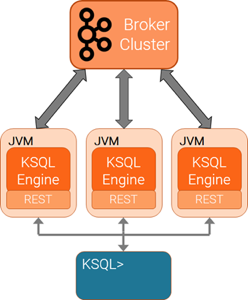
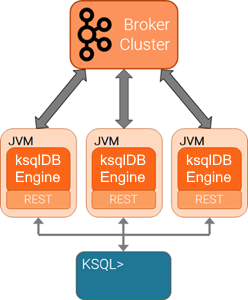
docs: update more graphics

Changed region(s): [[0.3952, 0.51, 0.5927, 0.63], [0.0565, 0.51, 0.254, 0.63], [0.7339, 0.51, 0.9315, 0.63]]

diff --git a/docs-md/concepts/ksqldb-architecture.md b/docs-md/concepts/ksqldb-architecture.md
@@ -24,7 +24,7 @@ ksqlDB Server comprises the ksqlDB engine and the REST API. ksqlDB Server
 instances communicate with a {{ site.ak }} cluster, and you can add more of
 them as necessary without restarting your applications.
 
-![Diagram showing architecture of ksqlDB](../img/ksql-architecture-and-components.png)
+![Diagram showing architecture of ksqlDB](../img/ksqldb-architecture-and-components.png)
 
 - ksqlDB Engine: The ksqlDB engine executes SQL statements and queries. You
 define your application logic by writing SQL statements, and the engine
@@ -139,7 +139,7 @@ Use the interactive mode to develop your ksqlDB applications. When you
 deploy a ksqlDB server in interactive mode, the REST interface is
 available for the ksqlDB CLI and {{ site.c3 }} to connect to.
 
-![Diagram showing interactive ksqlDB deployment](../img/ksql-client-server-interactive-mode.png)
+![Diagram showing interactive ksqlDB deployment](../img/ksqldb-client-server-interactive-mode.png)
 
 In interactive mode, you can:
 
@@ -171,7 +171,7 @@ using a SQL file. The SQL file contains the SQL statements and queries
 that define your application. Headless mode is ideal for streaming ETL
 application deployments.
 
-![Diagram showing headless ksqlDB deployment](../img/ksql-standalone-headless.png)
+![Diagram showing headless ksqlDB deployment](../img/ksqldb-standalone-headless.png)
 
 In headless mode you can:
 
@@ -230,7 +230,7 @@ property. The following diagram shows a {{ site.ak }} cluster with separate
 workloads for a `finance` pool and a `sales` pool. For more information, see
 [ksql.service.id](../operate-and-deploy/installation/server-config/config-reference.md#ksqlserviceid).
 
-![Diagram showing how to join ksqlDB engines to the same service pool](../img/ksql-dedicating-resources.png)
+![Diagram showing how to join ksqlDB engines to the same service pool](../img/ksqldb-dedicating-resources.png)
 
 To scale out, just add more ksqlDB server instances. There's no master
 node or coordination among them required. For more information, see

diff --git a/docs-md/concepts/ksqldb-and-kafka-streams.md b/docs-md/concepts/ksqldb-and-kafka-streams.md
@@ -15,7 +15,7 @@ applications and microservices in Java and Scala.
 ksqlDB is built on {{ site.kstreams }}, a robust stream processing framework
 that is part of {{ site.ak }}.
 
-![The Confluent Platform stack, with ksqlDB built on Kafka Streams](../img/ksql-kafka-streams-core-kafka-stack.png)
+![The Confluent Platform stack, with ksqlDB built on Kafka Streams](../img/ksqldb-kafka-streams-core-kafka-stack.png)
 
 ksqlDB gives you a query layer for building event streaming applications on
 {{ site.ak }} topics. ksqlDB abstracts away much of the complex programming

diff --git a/docs-md/concepts/connectors.md b/docs-md/concepts/connectors.md
@@ -5,7 +5,7 @@ tagline: Connect your ksqlDB applications to event sources
 description: Learn how to integrate your ksqlDB applications with Kafka connectors.
 ---
 
-![Illustration of a push query](../img/ksqldb-connectors.png)
+![Illustration of the ksqlDB architecture showing embedded Kafka connectors](../img/ksqldb-connectors.png)
 
 {{ site.kconnectlong }} is an open source component of {{ site.aktm }} that
 simplifies loading and exporting data between Kafka and external systems.

diff --git a/docs-md/index.md b/docs-md/index.md
@@ -129,7 +129,7 @@ Customer 360-view
 
 # How does it fit in my architecture?
 
-![](img/ksql-architecture-and-components.png)
+![](img/ksqldb-architecture-and-components.png)
 
 ksqlDB Server
 
